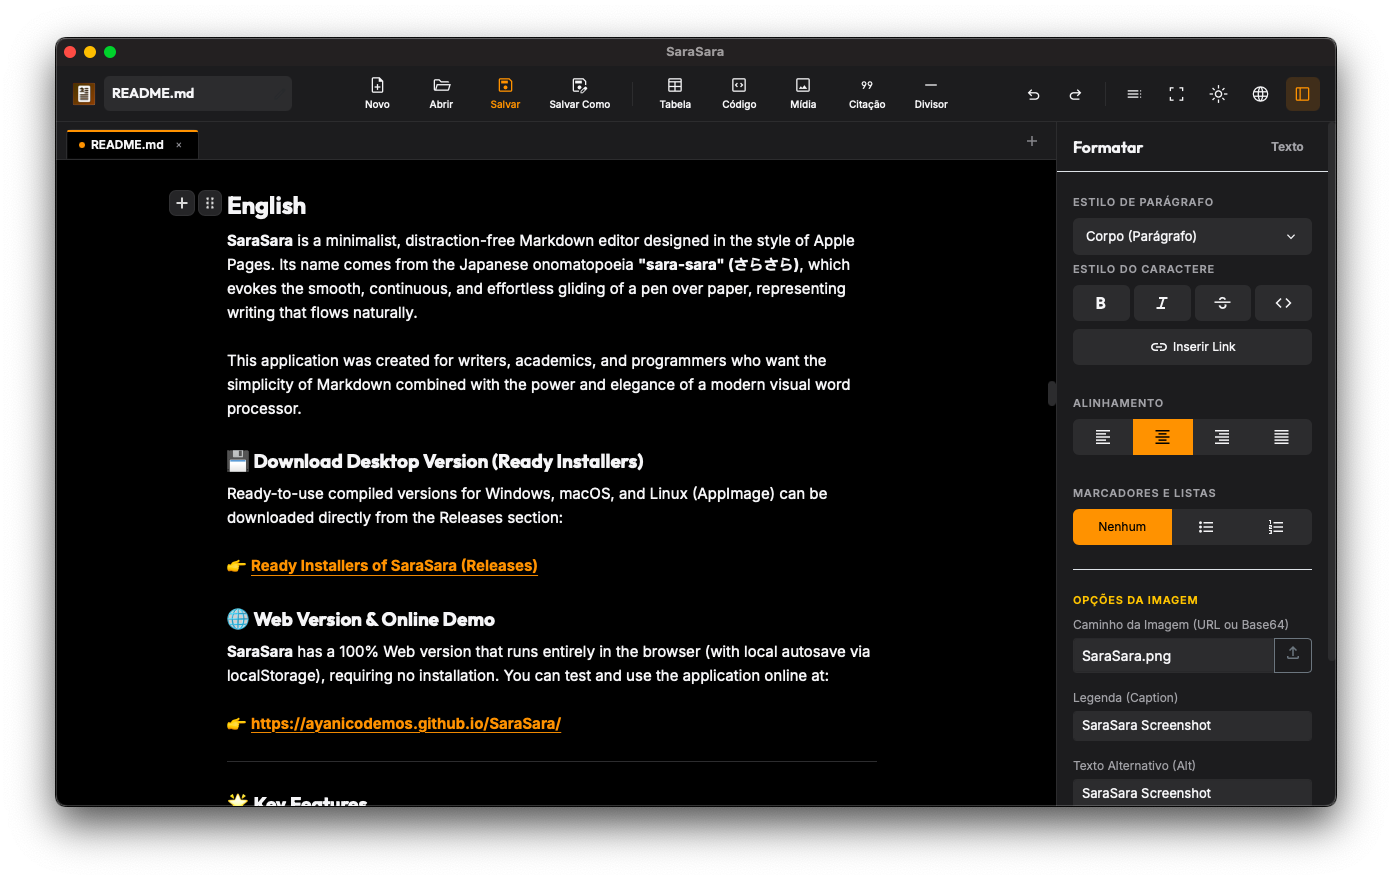
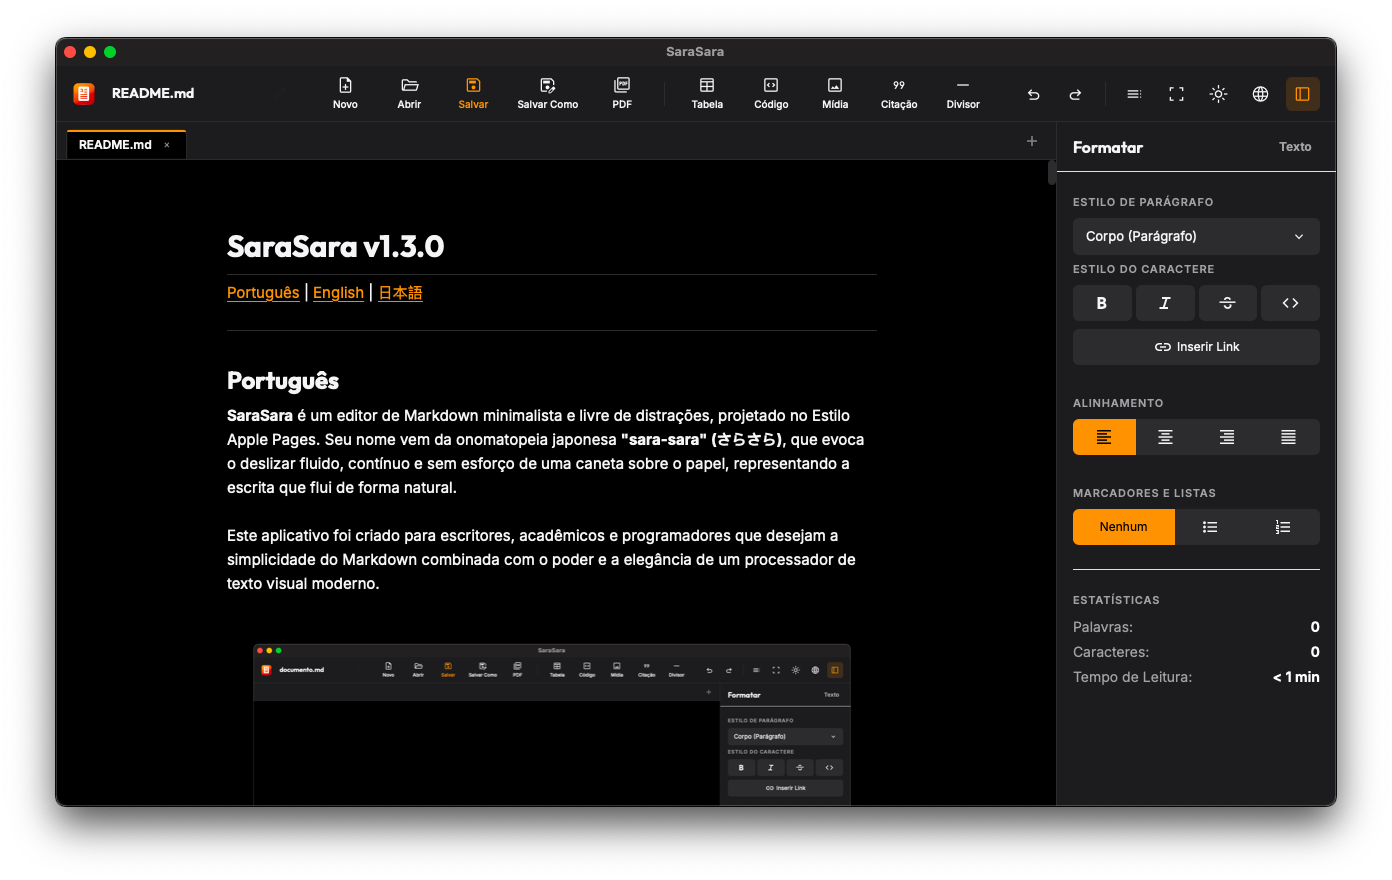
docs: update README.md and application screenshot for v1.3.0

diff --git a/README.md b/README.md
@@ -61,9 +61,15 @@ O **SaraSara** possui uma versão 100% Web que roda inteiramente no navegador (c
 - Salvar (Cmd + S / Ctrl + S): Grava as alterações diretamente no arquivo local.
 - Salvar Como (Cmd + Shift + S / Ctrl + Shift + S): Crie uma nova cópia do documento no diretório de sua escolha.
 
-### 6. Versão 100% Web Sem Instalação
+### 6. Exportação para PDF & Modo Impressão em Tempo Real (A4)
 
-- O SaraSara também pode ser executado diretamente no navegador. Ele salva e gerencia documentos localmente, permitindo exportar o resultado final fazendo o download do arquivo .md.
+- Exportação instantânea para PDF de alta fidelidade e resolução em vetor via botão na barra de ferramentas ou atalho `Cmd + P` / `Ctrl + P`.
+- Modal de Pré-visualização de Impressão interativo com opções de margens, orientação (Retrato/Paisagem), formato (A4/Carta) e modo de cor.
+- Modo Impressão A4 em Tempo Real: ative o checkbox na barra lateral direita para transformar a tela de escrita em folhas A4 virtuais com divisores e numeração de páginas em tempo real enquanto digita.
+
+### 7. Versão 100% Web Sem Instalação
+
+- O SaraSara também pode ser executado diretamente no navegador. Ele salva e gerencia documentos localmente, permitindo exportar o resultado final fazendo o download do arquivo .md ou PDF.
 
 ---
 
@@ -111,11 +117,12 @@ Você pode adicionar novos idiomas ou personalizar as traduções existentes de 
 
 | Atalho | Ação |
 | --- | --- |
-| `$2` / `$2` ou `$2` / `$2` | Criar um Novo Documento (Nova Aba)
-| `$2` / `$2` | Abrir um Arquivo Local
-| `$2` / `$2` | Salvar Alterações no Arquivo Atual
-| `$2` / `$2` | Salvar Como (Gravar Novo Arquivo)
-| `$2` / `$2` | Fechar Aba Ativa (sem encerrar o app) |
+| `Cmd + N` / `Ctrl + N` | Criar um Novo Documento (Nova Aba) |
+| `Cmd + O` / `Ctrl + O` | Abrir um Arquivo Local |
+| `Cmd + S` / `Ctrl + S` | Salvar Alterações no Arquivo Atual |
+| `Cmd + Shift + S` / `Ctrl + Shift + S` | Salvar Como (Gravar Novo Arquivo) |
+| `Cmd + P` / `Ctrl + P` | Exportar para PDF / Pré-visualização de Impressão |
+| `Cmd + W` / `Ctrl + W` | Fechar Aba Ativa (sem encerrar o app) |
 
 ---
 
